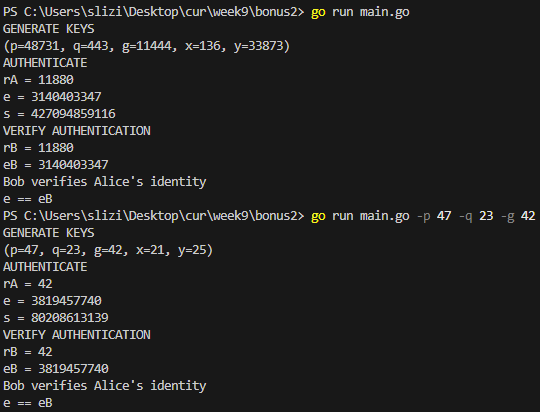
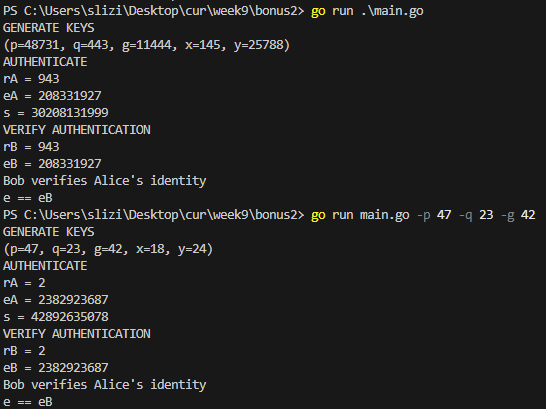
fixes

Changed region(s): [[0.0, 0.0, 1.0, 0.9976]]

diff --git a/week9/bonus2/main.go b/week9/bonus2/main.go
@@ -87,17 +87,17 @@ func main() {
 	rA := modExp(*g, k, *p)
 	fmt.Printf("rA = %d\n", rA)
 
-	// e = H(rA, message)
-	e := generateHashE(rA, *message)
-	fmt.Printf("e = %d\n", e)
+	// eA = H(rA, message)
+	eA := generateHashE(rA, *message)
+	fmt.Printf("eA = %d\n", eA)
 
 	// s = k + x*eA
-	s := (k + x*e)
+	s := (k + x*eA)
 	fmt.Printf("s = %d\n", s)
 
 	fmt.Println("VERIFY AUTHENTICATION")
 	// rB = (g^s * y^eA) mod p
-	rB := (modExp(*g, s, *p) * modExp(y, e, *p)) % *p
+	rB := (modExp(*g, s, *p) * modExp(y, eA, *p)) % *p
 	fmt.Printf("rB = %d\n", rB)
 
 	// eB = H(rB, message)
@@ -105,7 +105,7 @@ func main() {
 	fmt.Printf("eB = %d\n", eB)
 
 	// verify authentication
-	if e == eB {
+	if eA == eB {
 		fmt.Println("Bob verifies Alice's identity\ne == eB")
 	} else {
 		fmt.Println("Bob cannot verify Alice's identity\ne != eB")
